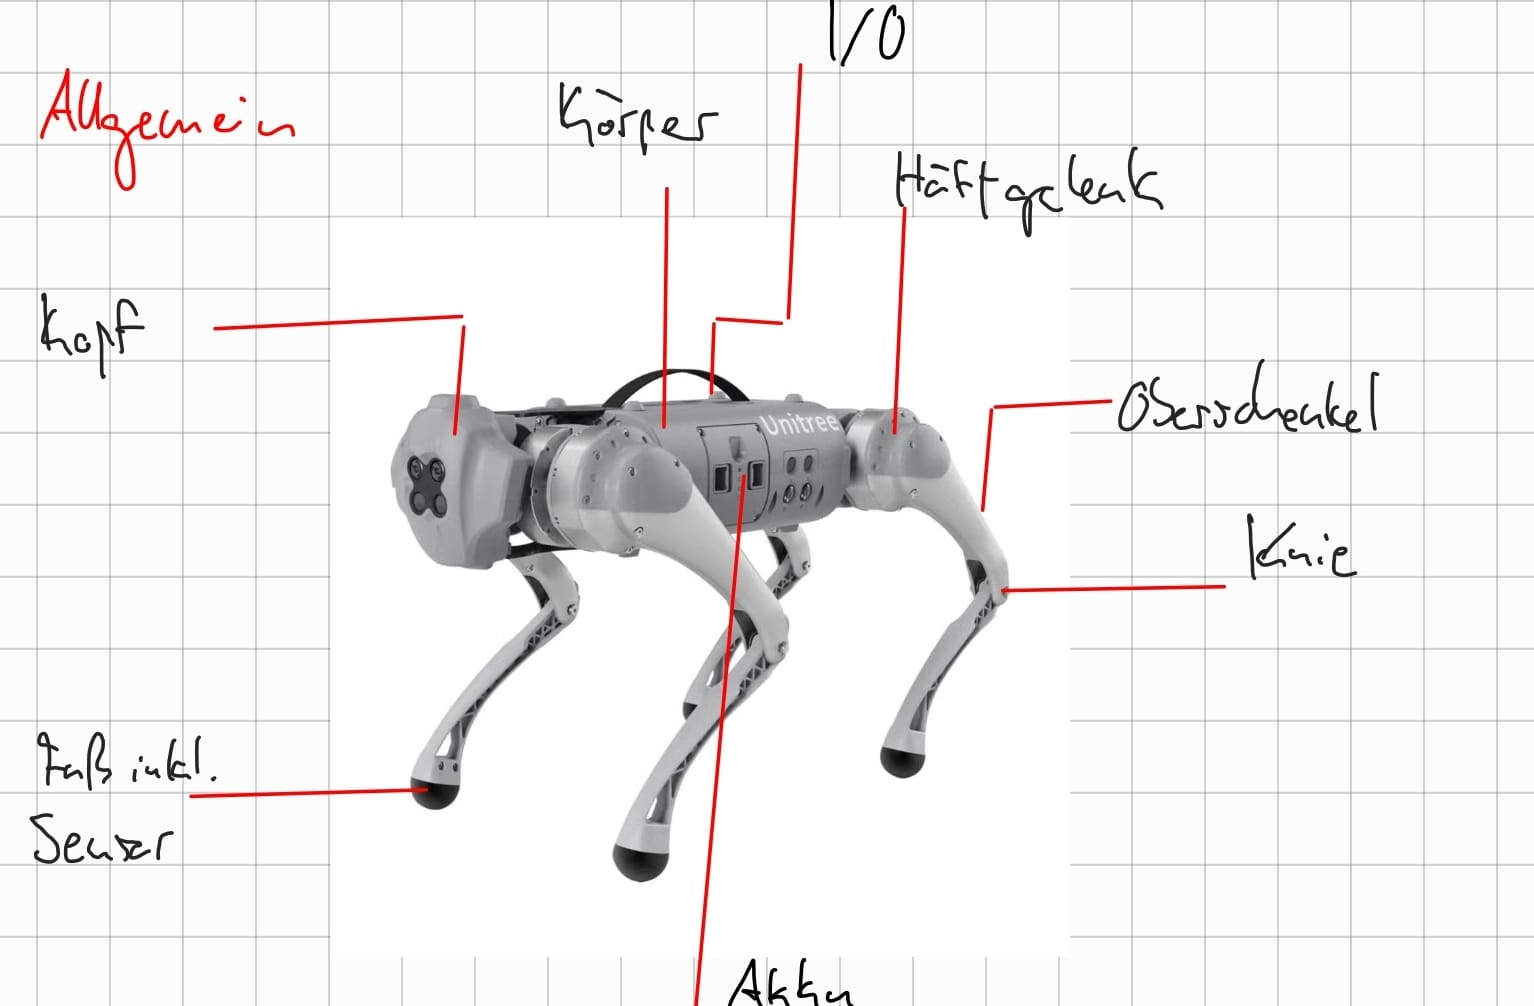
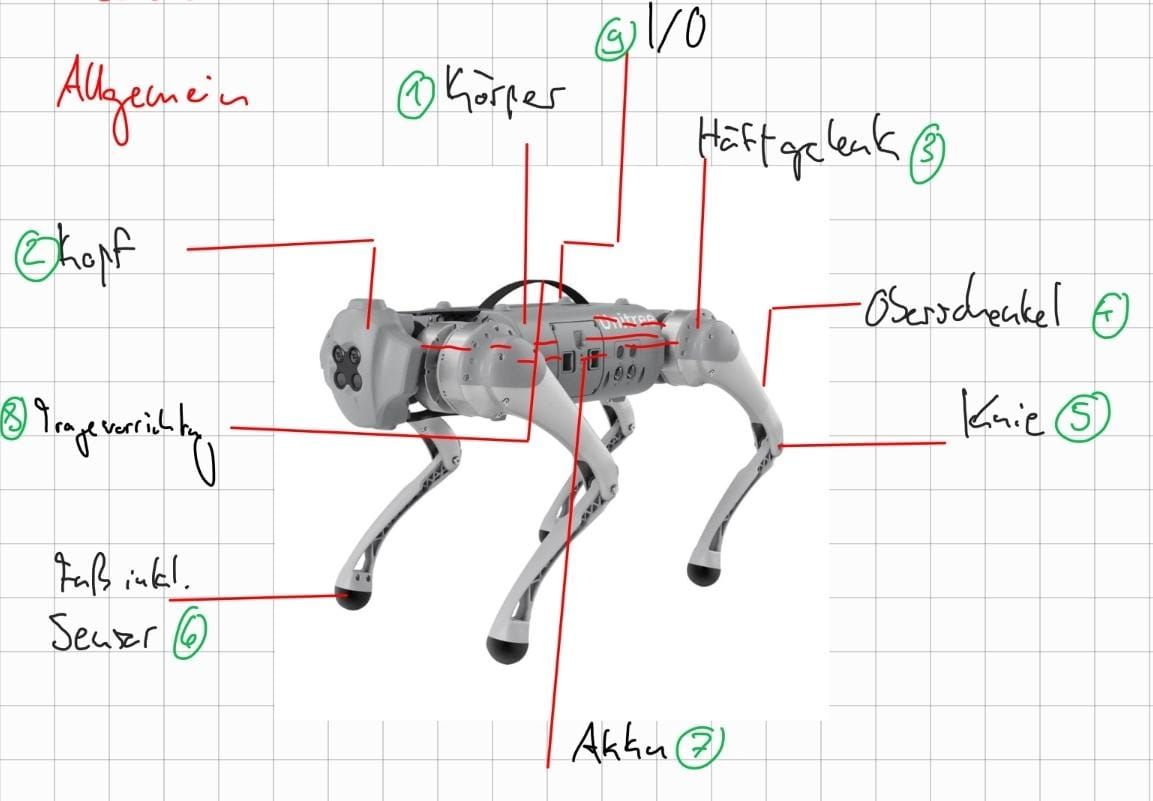
main: kapitel 3 weitergefuehrt

diff --git a/ma/chapters/3/aufbau_intern.tex b/ma/chapters/3/aufbau_intern.tex
@@ -1,0 +1,108 @@
+\subsection{Aufbau}
+\label{subsec:aufbau}
+
+Im Folgenden soll die interne Architektur des \gls{go1} im Detail dargestellt werden.
+Hierfür werden einige Perspektiven des Roboters gezeigt, um die nach Einsatzzweck klassifizierten Bauteilgruppen zu erläutern und darzustellen.
+
+\subsubsection{Überblick}
+
+Die zoomorphe Form des \gls{go1} ist - wie bereits mehrfach angedeutet - an die eines Hundes angelehnt.
+So ergeben sich die Bezeichnungen der äußerlich erkennbaren Bauteile von selbst.
+Abbildung~\ref{fig:allgemeine_architektur} zeigt die äußerlichen Merkmale im Überblick.
+
+\begin{figure}[h]
+    \frame{\includegraphics[width=\linewidth]{img/architektur/allgemein}}
+    \caption{Überblick über den \gls{go1}}\label{fig:allgemeine_architektur}
+\end{figure}
+
+Die Grundlage des Roboters bildet der Körper - auf Abbildung~\ref{fig:allgemeine_architektur} mit \numref{1} gekennzeichnet.
+In diesem sind ie meisten Komponenten des \gls{go1} verbaut, unter Anderen die folgenden:
+\begin{itemize}
+    \item Interne Hardwarekomponenten
+    \item Intelligenter Akku
+    \item Teile der Sensorik und Kameras
+    \item Hüftgelenke und Motoren der Beine
+\end{itemize}
+Eine genauere Beschreibung der Einzelteile findet sich in den folgenden Unterkapiteln.
+An der Vorderseite des Körpers ist der Kopf \numref{2} des Roboters verbaut.
+In diesem sind beispielsweise ein \emph{Nvidia Jetson Nano}, eine Stereo-Kamera und Stereo Ultraschall Sensoren
+und weitere Bauteile wie Lautsprecher und Mikrofone verbaut.
+An den vier äußeren Ecken des Körpers sind die Beine des Roboters verbaut.
+Innerhalb des Körpers sind die Motoren zur Steuerung der Hüftgelenke \numref{3} integriert.
+Außerhalb der Hüftgelenke an der Oberseite der vier Oberschenkel \numref{4} sind vier weitere Motoren
+zur vertikalen Steuerung der Beine verbaut.
+Parallel zu diesen Motoren sind im äußeren Teil des oberen Oberschenkels identische Motoren
+zur Steuerung der Knie \numref{5} integriert, die die Gelenke jeweils durch steife Achsen und Seilzüge
+anwinkeln können.
+An den Enden der Beine sind jeweils Füße \numref{6} verbaut, in denen Drucksensoren integriert sind.
+
+Neben den äußerlich auffälligen Merkmalen ist auf der linken Seite des Körpers noch ein intelligenter Akku
+\numref{7} verbaut.
+Auf der Oberseite des Körpers sind unterhalb der Tragevorrichtung \numref{8} noch Schnittstellen \numref{9} zur physischen
+Verbindung auf die integrierten Hardwarekomponenten verbaut.
+
+% ----- Ende ----------
+% ----- Überblick -----
+
+\subsubsection{Mechanische Komponenten}
+
+Der Anteil der in Abbildung~\ref{fig:mechanische_komponenten} gezeigten mechanischen Elemente des \gls{go1} hält sich in Grenzen.
+So sind am Körper selbst lediglich vier bewegliche Teile angebaut - die vier Servomotoren
+der Hüftgelenke \numref{1}.
+An den Hüftgelenken befestigt sind die einzigen weiteren beweglichen Bauteile des Roboters,
+die pro Bein jeweils zwei weiteren Motoren für die Neigung der Beine \numref{2} und der Kniegelenke \numref{3}.
+\todo{Validieren ob starre und Seizug Verbindung genutzt werden}
+\begin{figure}[h]
+    \frame{\includegraphics[width=\linewidth]{img/architektur/mechanische_komponenten}}
+    \caption{Mechanische Komponenten des \gls{go1}}\label{fig:mechanische_komponenten}
+\end{figure}
+Zum Strecken des Kniegelenks wird eine am äußeren Motor angebrachter Seilzug \numref{4} verwendet,
+zum Anwinkeln des unteren Beines wir im Gegenzug eine starre Verbindung \numref{5} an der Vorderseite des Kniegelenks genutzt.
+
+\myparagraph{Eigenschaften der Servomotoren}
+Die Servomotoren am Hüftgelenk - Abbildung~\ref{fig:mechanische_komponenten}, Bauteil \numref{1}, die Motoren an den Beininnenseiten \numref{2}
+und die Motoren an den Beinaußenseiten \numref{3} sind des gleichen Models -
+\emph{Unitree Robotics GO-M8010-6 Motor}\footcite{go_motor}.
+Die Servomotoren \todo{Sicher Servo?} haben ein maximales Drehmoment von \num{23.7}\gls{nm} und können in 3 verschiedene Konfigurationen
+eingeteilt werden:
+\begin{enumerate}
+    \item \textbf{Hüftmotoren}\\
+    Bewegungsradius von \num{-49}\textdegree~bis \num{49}\textdegree
+    \item \textbf{Oberschenkelmotoren}\\
+    Bewegungsradius von \num{-39}\textdegree~bis \num{257}\textdegree
+    \item \textbf{Kniemotoren}\\
+    Bewegungsradius von \num{-161}\textdegree~bis \num{-51}\textdegree
+\end{enumerate}
+Die Motoren sind ebenfalls mit Sensorik bestückt, welche den aktuellen Zustand des Bauteils erkennen und
+an die \gls{mcu} schicken können.
+Diese Funktionalität wird im Kapitel~\ref{subsubsec:hardware_sensorik} näher beschrieben.
+
+\subsubsection{Hardware und Sensorik}
+\label{subsubsec:hardware_sensorik}
+
+Als wichtige Bausteine zur intelligenten Nutzung des \gls{go1} sind an vielen Stellen im Roboter
+einige Sensoren oder intelligente Hardware verbaut.
+Neben der dedizierten Sensorik zur Erkennung des Umfeldes ist ebenfalls einfachere Sensorik
+in einigen Bauteilen wie den mechanischen Bauteilen des Laufapparats verbaut.
+Abbildung~\ref{fig:laufapparat} zeigt die hierfür verbauten Sensoren und intelligenten Hardwarebausteine.
+
+\begin{figure}[h]
+    \frame{\includegraphics[width=\linewidth]{img/architektur/laufaparat}}
+    \caption{Sensorik und Daten des Laufaparats}\label{fig:laufapparat}
+\end{figure}
+
+Ähnlich der mechanischen Eigenschaften der zwölf Servomotoren des Typs \emph{GO-M8010-6} - zwei pro Bein des Roboters \numref{1}
+und je ein Motor im Körper des Roboters \numref{2} - sind die sensorischen Funktionen dieser identisch.
+In Abbildung~\ref{fig:netzwerk_ueberblick} in Kapitel~\ref{subsubsec:netzwerk_ueberblick} ist erkennbar, dass die
+zwölf Motoren des \gls{go1} über eine \emph{RS-485} Schnittstelle mit der \gls{mcu} verbunden sind.
+Diese wertet die Informationen aus und steuert die einzelnen Motoren über dieselbe Schnittstelle an.
+
+\begin{figure}[h]
+    \frame{\includegraphics[width=\linewidth]{img/architektur/kameras_sensorik}}
+    \caption{Darrstellung der verbauten Kamera und Sensorik}\label{fig:kameras_sensorik}
+\end{figure}
+
+\begin{figure}[h]
+    \frame{\includegraphics[width=\linewidth]{img/architektur/hardware}}
+    \caption{Vogelperspektive mit Hardware}\label{fig:hardware}
+\end{figure}

diff --git a/ma/chapters/3/netzwerk.tex b/ma/chapters/3/netzwerk.tex
@@ -1,3 +1,5 @@
+\subsubsection{Netzwerk}
+
 Aufgrund der vielen Komponenten, Funktionen und den möglichen Erweiterungen des \gls{go1} ist eine robuste interne Kommunikation nötig.
 Die interne Kommunikationsstruktur des Roboters baut großenteils auf Netzwerkstandards wie \emph{Ethernet} und \emph{Wi-Fi} auf,
 setzt besonders in der Konnektivität mit externen Komponenten jedoch zusätzlich auf weitere Standards wi \emph{Bluetooth} und \emph{\gls{wwan}}.
@@ -7,14 +9,20 @@ auf ihre Stärken und Schwächen.
 Zudem soll die Methodik der Analyse des Netzwerks und mögliche Problemfeststellungen und -behebungen festgehalten werden.
 
 \subsubsection{Überblick}
+\label{subsubsec:netzwerk_ueberblick}
 
-Abbildung \ref{fig:netzwerk_ueberblick} gilt als Referenz für die folgenden Ausführungen.
+Abbildung~\ref{fig:netzwerk_ueberblick} gilt als Referenz für die folgenden Ausführungen.
 Zentrale Einheit der Kommunikation sind der verbaute Ethernet Switch \todo{was für switch} und
 der intern verbaute \emph{Raspberry Pi}.
-Wie auf Abbildung \ref{fig:netzwerk_ueberblick} zu erkennen ist, sind alle fünf manipulierbaren Platinen -
+Wie auf Abbildung~\ref{fig:netzwerk_ueberblick} zu erkennen ist, sind alle fünf manipulierbaren Platinen -
 der Raspberry Pi, die \gls{mcu}, die beiden Nvidia Jetson Nanos mit \num{4}GB \gls{ram} und der Nano im Kopf des Hundes -
 per \emph{Ethernet} mit dem Switch verbunden.
 Auch der extern zugängliche Ethernet-Port auf dem Rücken des Roboters ist mit dem Switch verbunden.
+
+\begin{figure}[h]
+    \frame{\includegraphics[width=\linewidth]{img/netzwerk/netzwerk_ueberblick}}
+    \caption{Überblick über Netzwerkkonfiguration}\label{fig:netzwerk_ueberblick}
+\end{figure}\todo{Überblick Quelle aus Anleitung}
 
 Alle geswitchten Komponenten des Netzwerks sind im \texttt{192.168.123.0/24}-Netzwerk registriert.
 \todo{was ist gateway? nötig?}
@@ -29,9 +37,18 @@ Dabei ist die Verteilung der \gls{ip}-Adressen folgendermaßen vorkonfiguriert:
         \item Unterseite: \texttt{192.168.123.15}
     \end{enumerate}
 \end{itemize}
+Dem Endgerät, das am externen Ethernet-Port an der Oberseite des Roboters angesteckt werden kann,
+muss eine statische \gls{ip}-Adresse im Bereich \texttt{192.168.123.0/24} vergeben werden, die nicht bereits von einem der oben genannten
+Geräten verwendet wird.
 
+Der Raspberry Pi hat zusätzlich zu seiner physischen Verbindung zum Switch und der \texttt{192.168.123.161}-\gls{ip}-Addresse
+noch ein \gls{wwan} Modul verbaut, mit welchem er das Netz \texttt{192.168.12.0/24} publiziert.
+Dieses Netz wird ab Werk für die Verbindung der App mit dem System benötigt.
+Dazu mehr in Kapitel \ref{subsubsec:app_and_web}.
+Des Weiteren kann dieses Netz genutzt werden, um eine kabellose Verbindung mit dem Gesamtsystem
+des Roboters herzustellen.
+Hierzu mehr in Kapitel \ref{par:raspi}.
 
-\begin{figure}[h]
-    \frame{\includegraphics[width=\linewidth]{img/netzwerk/netzwerk_ueberblick}}
-    \caption{Überblick über Netzwerkkonfiguration}\label{fig:netzwerk_ueberblick}
-\end{figure}\todo{Überblick Quelle aus Anleitung}
+\todo{MCU und Bluetooth? Wie?}
+\todo{Welche Art Netzwerk, switched, routed, hub?}
+

diff --git a/ma/chapters/3_architektur.tex b/ma/chapters/3_architektur.tex
@@ -1,48 +1,31 @@
 \section{Roboterarchitektur und Systemkomponenten}
 
-\subsection{Interner Aufbau}
-Im Folgenden soll die interne Architektur des \gls{go1} im Detail dargestellt werden.
-Hierfür werden einige Perspektiven des Roboters gezeigt, um die nach Einsatzzweck klassifizierten Bauteilgruppen zu erläutern und darzustellen.
+Folgendes Kapitel beschreibt den physischen Aufbau des \gls{go1} und die Konfiguration dessen im Werkszustand.
+Um die Komplexität des Systems besser verstehen zu können, wird der Aufbau in mehreren Schritten erklärt.
+Zuerst soll der äußere Aufbau dargestellt werden, danach der Aufbau der internen Systemelemente und der Sensorik und zuletzt
+soll die Inbetriebnahme und vereinfachte Nutzung des Roboters dokumentiert werden.
 
-\subsubsection{Überblick}
 
-\begin{figure}[h]
-    \frame{\includegraphics[width=\linewidth]{img/architektur/allgemein}}
-    \caption{Überblick über den \gls{go1}}\label{fig:allgemeine_architektur}
-\end{figure}
-
-\subsubsection{Mechanische Komponenten}
-
-\begin{figure}[h]
-    \frame{\includegraphics[width=\linewidth]{img/architektur/mechanische_komponenten}}
-    \caption{Mechanische Komponenten des \gls{go1}}\label{fig:mechanische_komponenten}
-\end{figure}
-
-\subsubsection{Hardware und Sensorik}
-
-\begin{figure}[h]
-    \frame{\includegraphics[width=\linewidth]{img/architektur/laufaparat}}
-    \caption{Sensorik und Daten des Laufaparats}\label{fig:laufaparat}
-\end{figure}
-
-\begin{figure}[h]
-    \frame{\includegraphics[width=\linewidth]{img/architektur/kameras_sensorik}}
-    \caption{Darrstellung der verbauten Kamera und Sensorik}\label{fig:kameras_sensorik}
-\end{figure}
-
-\begin{figure}[h]
-    \frame{\includegraphics[width=\linewidth]{img/architektur/hardware}}
-    \caption{Vogelperspektive mit Hardware}\label{fig:hardware}
-\end{figure}
+\input{ma/chapters/3/aufbau_intern}
 
 \subsection{Inbetriebnahme}
 
 \subsection{Hardware Architektur}
+
 \subsubsection{Überblick}
+
 \subsubsection{Kernelemente}
-\subsubsection{Spezialisierte Hardware}
-\subsubsection{Netzwerk}
+
+% \subsubsection{Netzwerk}
 \input{ma/chapters/3/netzwerk}
+
+\subsubsection{Spezialisierte Hardware}
+\paragraph{Raspberry Pi}
+\label{par:raspi}
+
+\subsubsection{Anwendungen}
+\label{subsubsec:app_and_web}
+
 
 \subsection{Limitierungen}
 \subsubsection{Rechenleistung}

diff --git a/ma/chapters/2_grundlagen.tex b/ma/chapters/2_grundlagen.tex
@@ -6,15 +6,3 @@
 \subsubsection{Netzwerk, Latenz, Resilienz...}
 
 \subsection{Stand der Forschung}
-
-... bla bla. Der Code in Listing~\ref{buffer-overflow.c} ergibt diese Ausgaben:
-\input{listings/buffer-overflow.term}
-
-... Ein Bild:
-
-\begin{figure}[h]
-    \frame{\includegraphics[width=\linewidth]{img/sample}}
-    \caption{Eine $\chi^2$-Verteilung}\label{img-sample}
-\end{figure}
-
-Und Abkürzungen: \gls{bpel},\glspl{cli}, \glstext{aws}.

diff --git a/commands.tex b/commands.tex
@@ -9,3 +9,6 @@
 \colorlet{typecol}{green!50!black}
 \colorlet{custcol}{orange!50!black}
 
+\newcommand{\numref}[1]{\large\textcircled{\normalsize \texttt #1}}
+\newcommand{\myparagraph}[1]{\paragraph*{#1}\mbox{}\\}
+

diff --git a/ma/content.tex b/ma/content.tex
@@ -1,5 +1,8 @@
 
 \include{ma/chapters/2_grundlagen}
 \include{ma/chapters/3_architektur}
+
+\section{Analyse des Roboters}
+
 \include{ma/chapters/4_erweiterung}
 \include{ma/chapters/5_ergebnisanalyse}

diff --git a/abbrev.tex b/abbrev.tex
@@ -11,3 +11,4 @@
 \newabbreviation{mcu}{MCU}{Main Control Unit}
 \newabbreviation{ram}{RAM}{Random Access Memory}
 \newabbreviation{ip}{IP}{Internetprotocoll}
+\newabbreviation{nm}{NM}{Newton/Meter}
